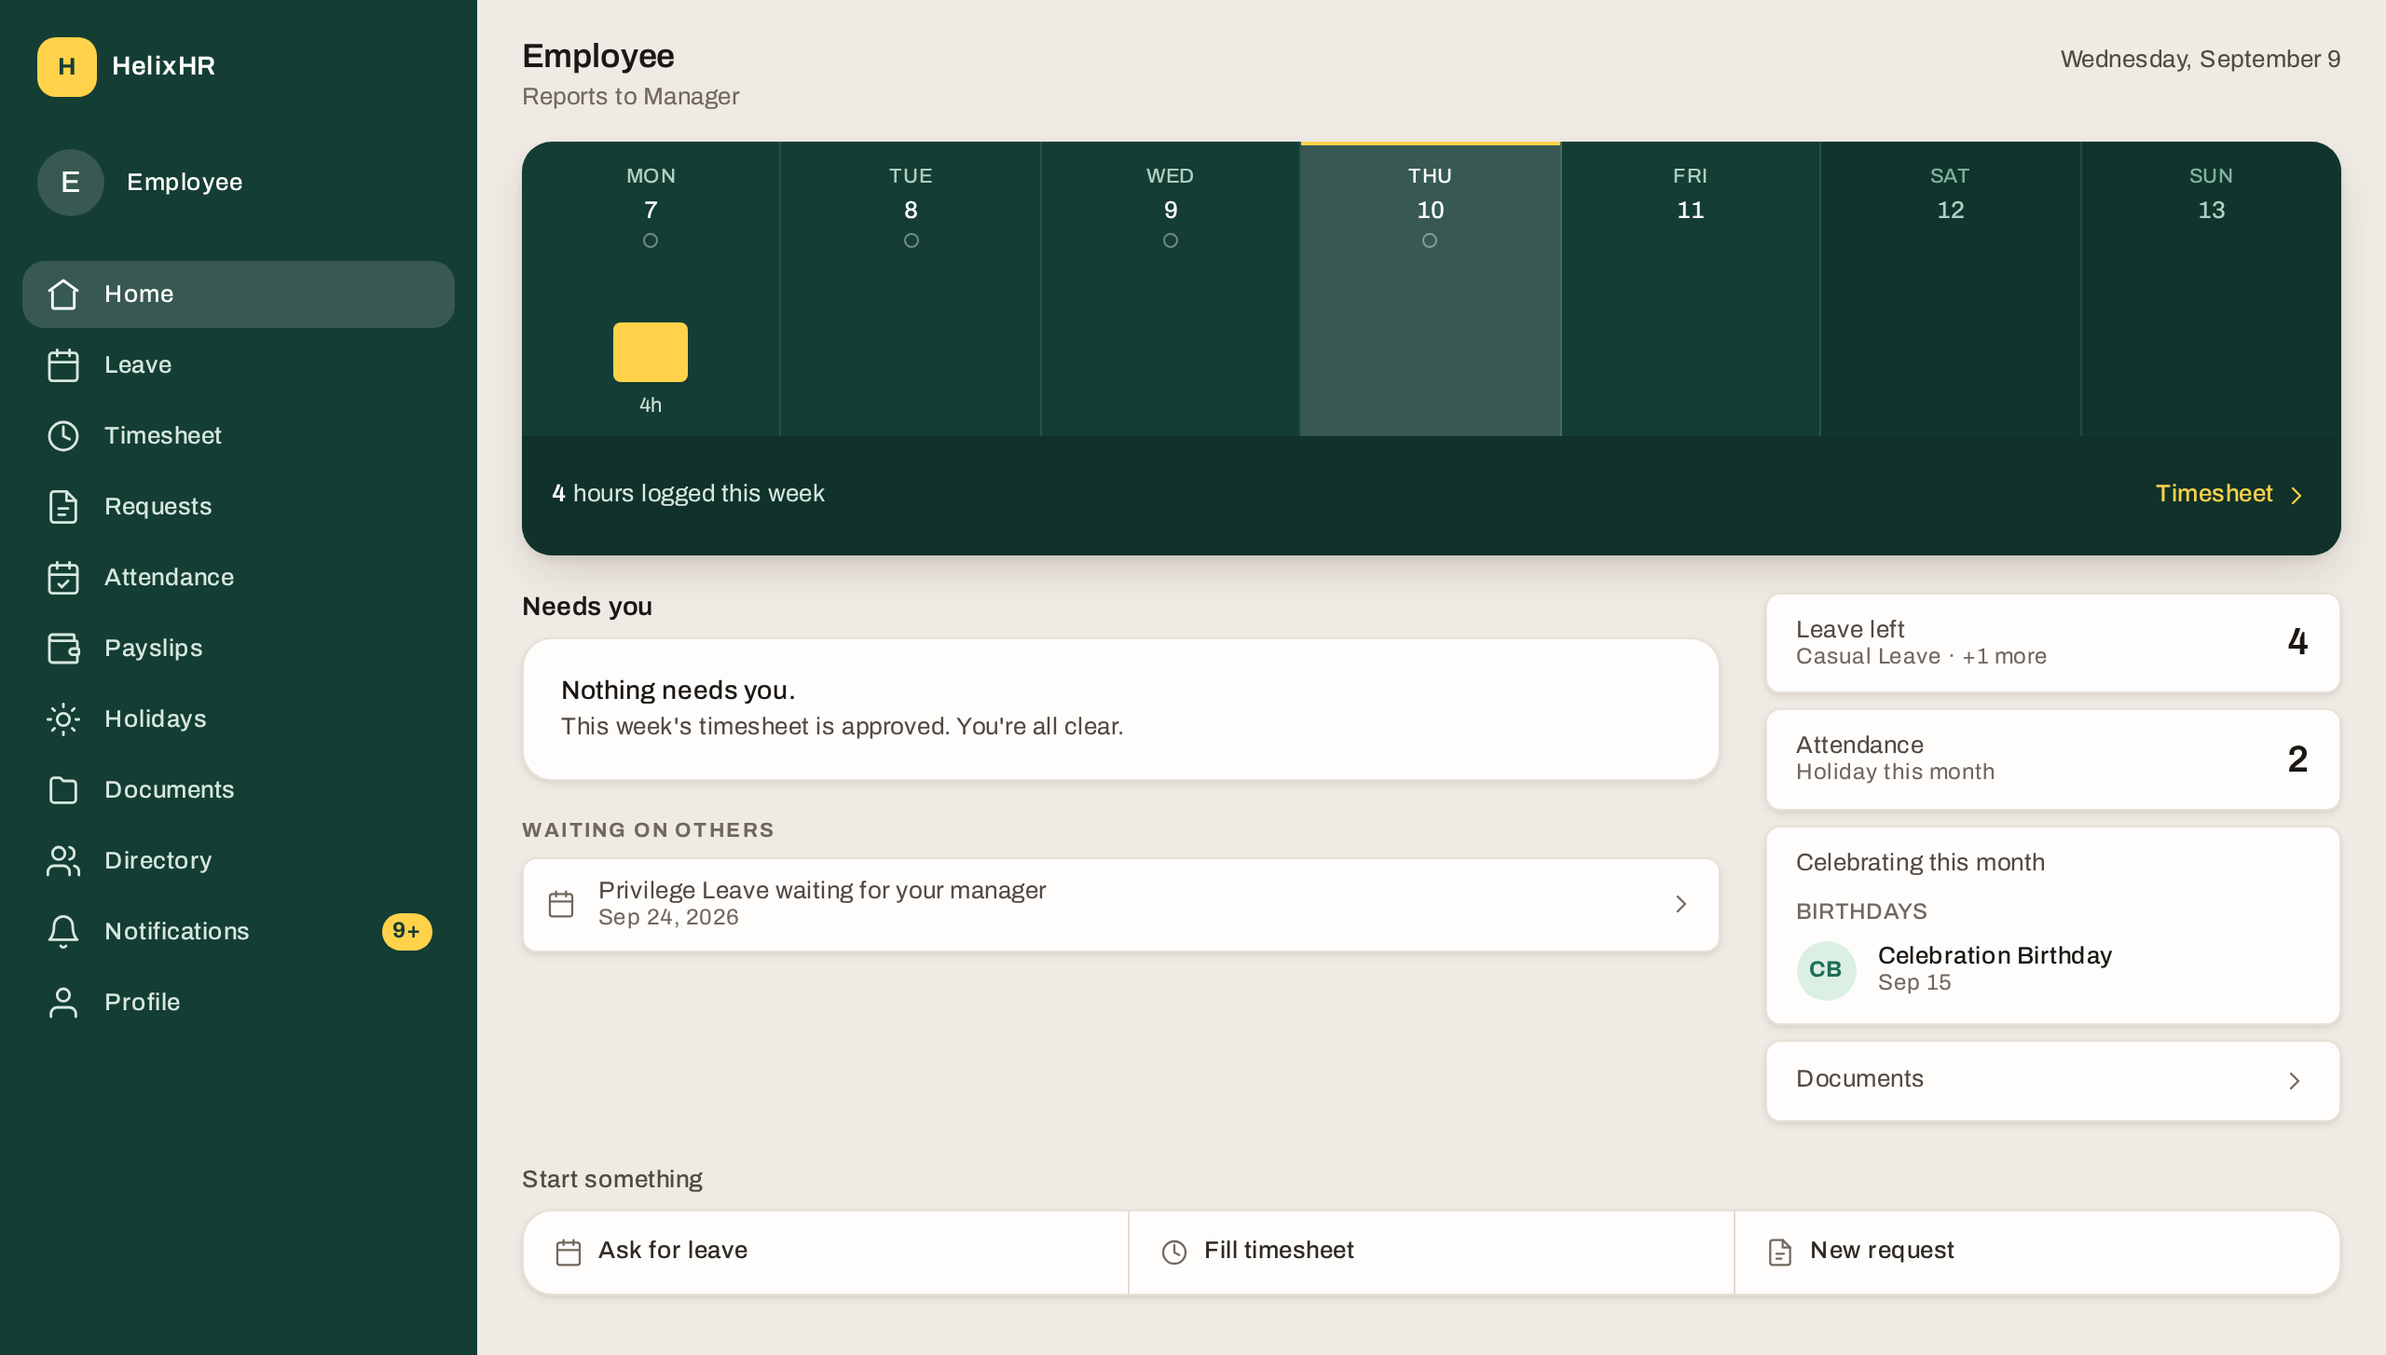
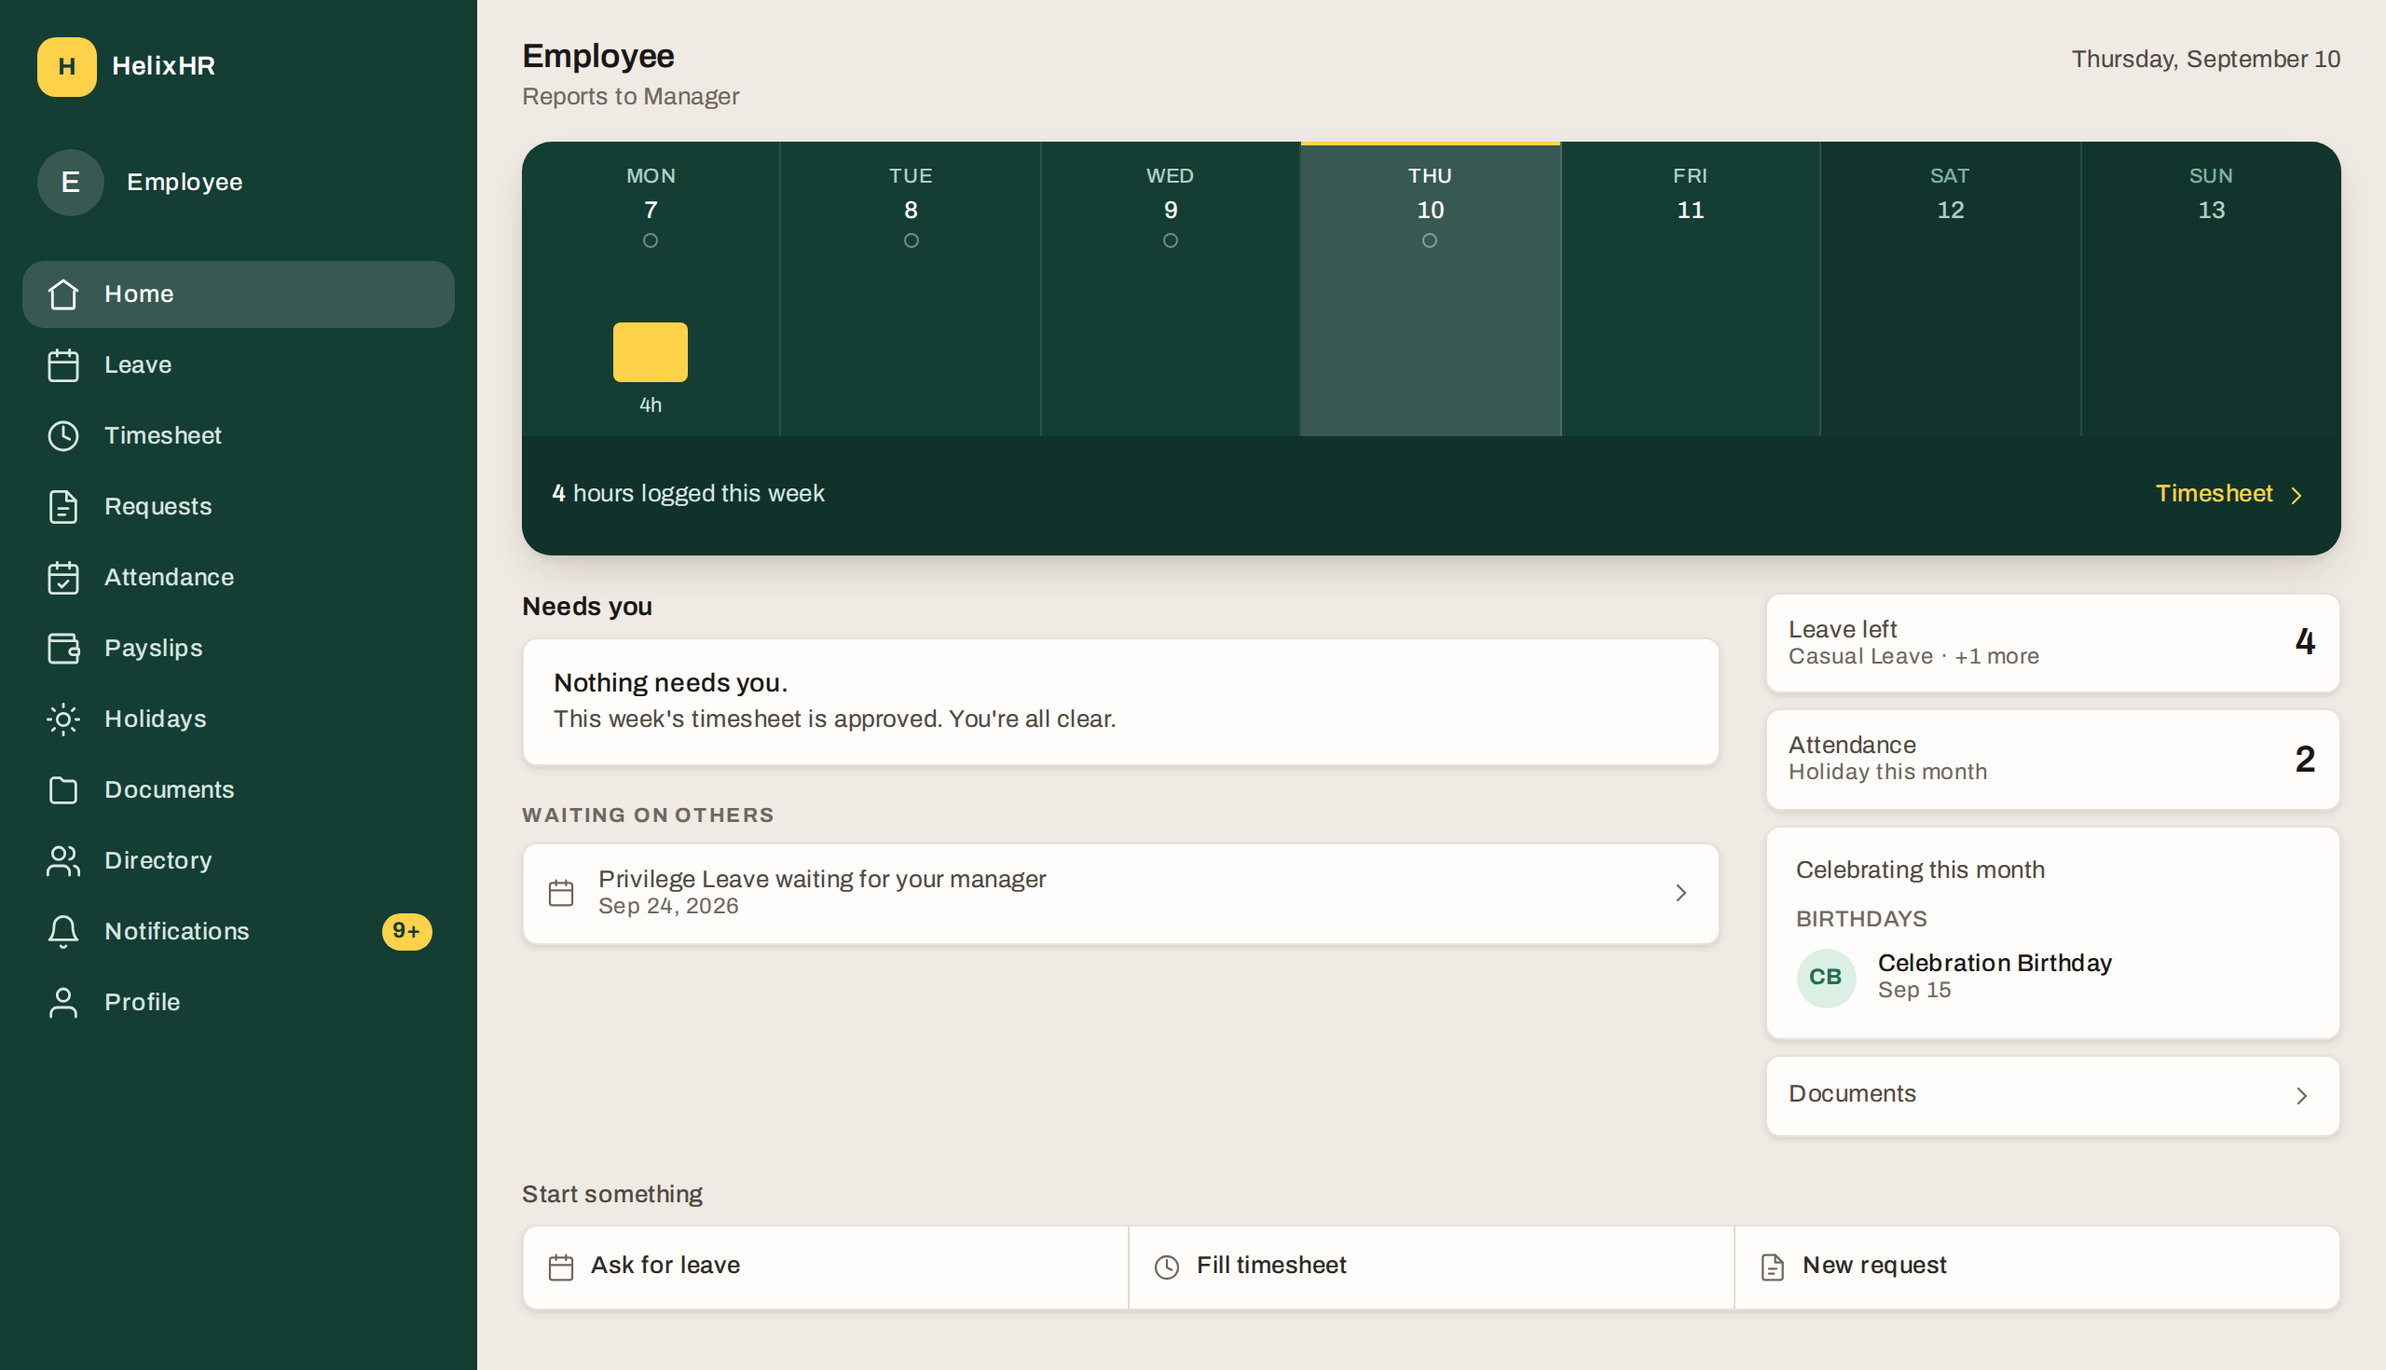
refactor(portal): draw every home-page card on the shared surface
The home page was the last screen still drawing its own cards. The rail and the
Celebrating card used `.surface-card`; the queue rows, the empty state and the
quick-actions bar restated the same surface by hand with a 16px corner plus
their own border and fill. Two cards stacked in the same column disagreed on
their corner by 8px, and one page carried four different insets against the
fifteen call sites on eleven other pages that already agree on two.

Cards now come from one surface (8px corner, 1px hairline, elev-1) with one of
two insets: 16px on a card that contains content, 12px on a record row. A
divided card carries its inset on its segments, not on its container, which is
the shape Profile, Approvals, Attendance and Directory already ship.

A computed-style check now fails when a card is drawn off that surface, so the
drift cannot return through markup that merely looks plausible. It reads the
corner and the inset off the rendered page, requires the queue row and the
waiting row to actually be present (a stubbed dashboard response makes those
shapes deterministic instead of fixture-dependent), catches a hand-drawn card
at any of the preset's non-card corners, and refuses to pass when the
quick-actions bar has no segments to measure.

No content, order, wording, data or layout changed. The week spine keeps its
own surface deliberately, and the README's home-page capture is refreshed
because its pixels are the change.

diff --git a/frontend/tests/e2e/visual-foundation.spec.ts b/frontend/tests/e2e/visual-foundation.spec.ts
@@ -94,6 +94,103 @@ async function horizontalOverflow(page: Page) {
   )
 }
 
+/** The home page's card surface, read off the rendered page (R1, R2, R6).
+ *
+ * Two properties and no screenshot, because a screenshot comparison cannot
+ * say what a card's corner *is* -- only that it moved. Every card the page
+ * draws carries the one corner the design system declares, and every card's
+ * inset is one of the two the app uses (a content card at 16px, a record row
+ * at 12px).
+ *
+ * A divided card owns no inset itself -- its segments do -- so a
+ * zero-padding card is legal only inside the quick-actions section, whose
+ * segments are checked in its place.
+ *
+ * The last loop is the anti-regression teeth: a card redrawn by hand with
+ * `rounded-xl` is caught by its computed corner, not by its class list, so
+ * the check survives the next rewrite of the markup.
+ */
+async function cardSurfaceFindings(page: Page) {
+  return page.evaluate(() => {
+    const findings: string[] = []
+    const main = document.querySelector('main')
+    if (!main) return ['no <main> on the home page']
+
+    const label = (el: Element) =>
+      `${el.tagName.toLowerCase()}.${(el.className || '').toString().split(/\s+/).slice(0, 2).join('.')}`
+
+    /** The four inset sides, so "is this one of the two card insets" and "is
+     * this inset even" read the same way wherever an inset is measured. */
+    const insets = (style: CSSStyleDeclaration) => [
+      style.paddingTop,
+      style.paddingRight,
+      style.paddingBottom,
+      style.paddingLeft,
+    ]
+
+    const cards = Array.from(main.querySelectorAll('.surface-card'))
+    if (cards.length === 0) findings.push('the home page draws no .surface-card at all')
+
+    for (const card of cards) {
+      const style = getComputedStyle(card)
+      if (style.borderRadius !== '8px') {
+        findings.push(`${label(card)} corner is ${style.borderRadius}, not the shared 8px`)
+      }
+      const sides = insets(style)
+      if (new Set(sides).size !== 1) {
+        findings.push(`${label(card)} inset is uneven: ${sides.join('/')}`)
+        continue
+      }
+      const inset = sides[0]
+      if (inset === '0px') {
+        if (!card.closest('[aria-labelledby="quick-actions-heading"]')) {
+          findings.push(`${label(card)} carries no inset and is not the divided quick-actions card`)
+        }
+        continue
+      }
+      if (inset !== '12px' && inset !== '16px') {
+        findings.push(`${label(card)} inset is ${inset}, not one of the two card insets`)
+      }
+    }
+
+    // The divided card's segments own the inset it does not carry. Both the
+    // card and its segments are required: an optional lookup here would let
+    // the check pass over a quick-actions bar that rendered nothing.
+    const bar = main.querySelector('[aria-labelledby="quick-actions-heading"] .surface-card')
+    if (!bar) {
+      findings.push('the quick-actions divided card is not on the page to check its inset')
+    } else {
+      const segments = Array.from(bar.querySelectorAll('a'))
+      if (segments.length === 0) {
+        findings.push('the quick-actions card rendered no segments to check the inset on')
+      }
+      for (const segment of segments) {
+        const sides = insets(getComputedStyle(segment))
+        if (new Set(sides).size !== 1 || sides[0] !== '12px') {
+          findings.push(`${label(segment)} segment inset is ${sides.join('/')}, not 12px`)
+        }
+      }
+    }
+
+    // Every corner bar the on-surface one, so a card redrawn by hand at any
+    // of them is caught. The preset's non-card radii are the drift the design
+    // system itself records (`rounded-md` 10px, `rounded-lg` 12px,
+    // `rounded-xl` 16px); `rounded-full` is 9999px and stays out of this, so
+    // a pill or an avatar is not mistaken for a card.
+    const OFF_SURFACE_CORNERS = ['10px', '12px', '16px']
+    for (const el of Array.from(main.querySelectorAll('*'))) {
+      const style = getComputedStyle(el)
+      if (OFF_SURFACE_CORNERS.includes(style.borderRadius) && parseFloat(style.borderTopWidth) > 0) {
+        findings.push(
+          `${label(el)} is a card drawn by hand: a ${style.borderRadius} corner behind a ${style.borderTopWidth} border`,
+        )
+      }
+    }
+
+    return findings
+  })
+}
+
 test.describe('employee', () => {
   test.beforeEach(async ({}, testInfo) => {
     test.skip(!testInfo.project.name.startsWith('employee'), 'employee-only scenarios')
@@ -434,6 +531,76 @@ test.describe('employee', () => {
     expect(family).toContain('Archivo')
     await context.close()
   })
+
+  // P2-U3 / P2-R1, P2-R2. The home page was the last screen still drawing its
+  // own cards: its rail and its Celebrating card were `.surface-card` while
+  // the queue rows, the empty state and the quick-actions bar restated the
+  // same surface by hand at 16px. This is the check that keeps them one
+  // surface, at the desktop width and at the phone stack.
+  test('every home-page card is drawn by the shared surface (R1, R2, R6)', async ({ page }) => {
+    for (const width of [1280, 360]) {
+      await page.setViewportSize({ width, height: 900 })
+      await page.goto('/helixhr/')
+      await page.waitForLoadState('networkidle')
+      const findings = await cardSurfaceFindings(page)
+      expect(findings, `at ${width}px:\n${findings.join('\n')}`).toEqual([])
+    }
+  })
+
+  // The queue row is its own card shape, and the seeded home page renders an
+  // empty queue -- so the check above passes over that shape without ever
+  // seeing it. This is the same guard against a dashboard this test controls,
+  // which is the only way the queue row is guaranteed to be on the page.
+  test('a rendered queue row is drawn by the shared surface (R1, R2)', async ({ page }) => {
+    await page.route('**/api/method/helixhr.api.get_dashboard*', async (route) => {
+      const response = await route.fetch()
+      const body = await response.json()
+      body.message.needs_you = {
+        items: [
+          {
+            id: 'surface-check:queue-row',
+            kind: 'leave',
+            tone: 'action',
+            title: 'A row the surface check needs on the page',
+            detail: 'Quoted inline, the way a real row carries its reason',
+            date: body.message.needs_you?.items?.[0]?.date || null,
+            day: null,
+            age_days: null,
+            action: 'Review',
+            to: '/leave',
+          },
+        ],
+        more: 0,
+        waiting: [
+          {
+            id: 'surface-check:waiting-row',
+            kind: 'leave',
+            tone: 'muted',
+            title: 'The quieter row the surface check also needs',
+            detail: null,
+            date: body.message.needs_you?.items?.[0]?.date || null,
+            day: null,
+            age_days: null,
+            to: '/leave',
+          },
+        ],
+      }
+      await route.fulfill({ response, json: body })
+    })
+
+    await page.goto('/helixhr/')
+    await page.waitForLoadState('networkidle')
+
+    // Without these the guard could pass on a page where the rows never
+    // rendered -- which is exactly what it did before this test existed.
+    await expect(page.locator('li[data-kind="leave"]').first()).toBeVisible()
+    await expect(
+      page.getByRole('link', { name: /quieter row the surface check also needs/ }),
+    ).toBeVisible()
+
+    const findings = await cardSurfaceFindings(page)
+    expect(findings, findings.join('\n')).toEqual([])
+  })
 })
 
 // P3-U9. The manager half of the same foundation. `/team` is a manager
@@ -470,6 +637,16 @@ test.describe('manager', () => {
         expect(await horizontalOverflow(page), `${route} at ${width}px`).toBe(0)
       }
     }
+  })
+
+  // The rail changes shape per user -- a manager with no leave allocated sees
+  // a rail row with no figure at all -- so the surface rule is checked under
+  // the manager identity too, not only the employee one.
+  test('a manager home page draws its cards on the same surface (R1, R2)', async ({ page }) => {
+    await page.goto('/helixhr/')
+    await page.waitForLoadState('networkidle')
+    const findings = await cardSurfaceFindings(page)
+    expect(findings, findings.join('\n')).toEqual([])
   })
 
   test('200% text zoom does not create horizontal scroll on a manager route', async ({ page }) => {

diff --git a/frontend/src/pages/Dashboard.vue b/frontend/src/pages/Dashboard.vue
@@ -107,7 +107,7 @@ const today = new Intl.DateTimeFormat(undefined, {
           <div
             v-for="n in 3"
             :key="n"
-            class="h-20 animate-pulse rounded-xl bg-surface-gray-2"
+            class="h-20 animate-pulse rounded bg-surface-gray-2"
           />
         </div>
       </div>
@@ -157,7 +157,7 @@ const today = new Intl.DateTimeFormat(undefined, {
         >
           <router-link
             to="/leave"
-            class="surface-card elev-1 group flex cursor-pointer items-center justify-between gap-3 px-4 py-3 transition-colors duration-200 hover:border-blue-600"
+            class="surface-card elev-1 group flex min-h-11 cursor-pointer items-center justify-between gap-3 p-3 transition-colors duration-200 hover:border-blue-600"
           >
             <span class="min-w-0">
               <span class="block text-sm text-ink-gray-6">Leave left</span>
@@ -195,7 +195,7 @@ const today = new Intl.DateTimeFormat(undefined, {
             </template>
             <router-link
               to="/attendance"
-              class="surface-card elev-1 group flex cursor-pointer items-center justify-between gap-3 px-4 py-3 transition-colors duration-200 hover:border-blue-600"
+              class="surface-card elev-1 group flex min-h-11 cursor-pointer items-center justify-between gap-3 p-3 transition-colors duration-200 hover:border-blue-600"
             >
               <span class="min-w-0">
                 <span class="block text-sm text-ink-gray-6">Attendance</span>
@@ -228,7 +228,7 @@ const today = new Intl.DateTimeFormat(undefined, {
 
           <router-link
             to="/documents"
-            class="surface-card elev-1 group flex min-h-11 cursor-pointer items-center justify-between gap-3 px-4 py-3 transition-colors duration-200 hover:border-blue-600"
+            class="surface-card elev-1 group flex min-h-11 cursor-pointer items-center justify-between gap-3 p-3 transition-colors duration-200 hover:border-blue-600"
           >
             <span class="text-sm text-ink-gray-6">Documents</span>
             <Icon

diff --git a/frontend/src/components/NeedsYou.vue b/frontend/src/components/NeedsYou.vue
@@ -56,7 +56,7 @@ function ageLabel(item) {
       <div
         v-for="n in 2"
         :key="n"
-        class="h-16 animate-pulse rounded-xl bg-surface-gray-2"
+        class="h-16 animate-pulse rounded bg-surface-gray-2"
       />
     </div>
 
@@ -64,7 +64,7 @@ function ageLabel(item) {
          one thing still outstanding rather than reading as a broken page. -->
     <div
       v-else-if="items.length === 0"
-      class="elev-1 rounded-xl border border-outline-gray-1 bg-surface-white p-5"
+      class="surface-card elev-1 p-4"
     >
       <p class="font-heading text-base font-medium text-ink-gray-9">
         Nothing needs you.
@@ -100,7 +100,7 @@ function ageLabel(item) {
       <li
         v-for="item in items"
         :key="item.id"
-        class="elev-1 flex flex-wrap items-start gap-x-3 gap-y-2 rounded-xl border border-outline-gray-1 bg-surface-white p-3 sm:flex-nowrap"
+        class="surface-card elev-1 flex flex-wrap items-start gap-x-3 gap-y-2 p-3 sm:flex-nowrap"
         :data-kind="item.kind"
       >
         <span
@@ -178,7 +178,7 @@ function ageLabel(item) {
         >
           <router-link
             :to="item.to"
-            class="surface-card elev-1 flex min-h-11 cursor-pointer items-center gap-3 px-3 py-2.5 transition-colors duration-200 hover:border-blue-600"
+            class="surface-card elev-1 flex min-h-11 cursor-pointer items-center gap-3 p-3 transition-colors duration-200 hover:border-blue-600"
           >
             <Icon
               :name="NEEDS_YOU_ICON[item.kind] || 'leave'"

diff --git a/frontend/src/components/QuickActions.vue b/frontend/src/components/QuickActions.vue
@@ -21,13 +21,13 @@ const ACTIONS = [
       Start something
     </h2>
     <div
-      class="elev-1 flex flex-col divide-y divide-outline-gray-2 overflow-hidden rounded-xl border border-outline-gray-1 bg-surface-white sm:flex-row sm:divide-x sm:divide-y-0"
+      class="surface-card elev-1 flex flex-col divide-y divide-outline-gray-2 overflow-hidden sm:flex-row sm:divide-x sm:divide-y-0"
     >
       <router-link
         v-for="action in ACTIONS"
         :key="action.to"
         :to="action.to"
-        class="flex min-h-11 flex-1 cursor-pointer items-center gap-2 px-4 py-3 text-sm font-medium text-ink-gray-8 transition-colors duration-200 hover:bg-blue-50 hover:text-blue-700"
+        class="flex min-h-11 flex-1 cursor-pointer items-center gap-2 p-3 text-sm font-medium text-ink-gray-8 transition-colors duration-200 hover:bg-blue-50 hover:text-blue-700"
       >
         <Icon
           :name="action.icon"

diff --git a/frontend/src/components/Celebrations.vue b/frontend/src/components/Celebrations.vue
@@ -35,7 +35,7 @@ function when(person) {
 
 <template>
   <section
-    class="surface-card elev-1 px-4 py-3"
+    class="surface-card elev-1 p-4"
     aria-labelledby="celebrations-heading"
   >
     <h2
